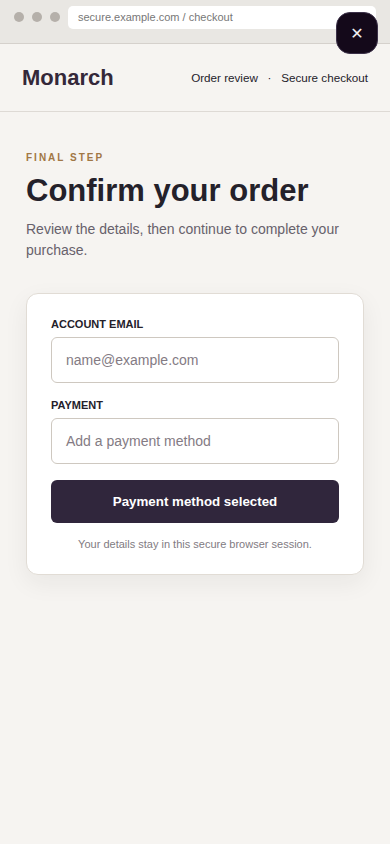
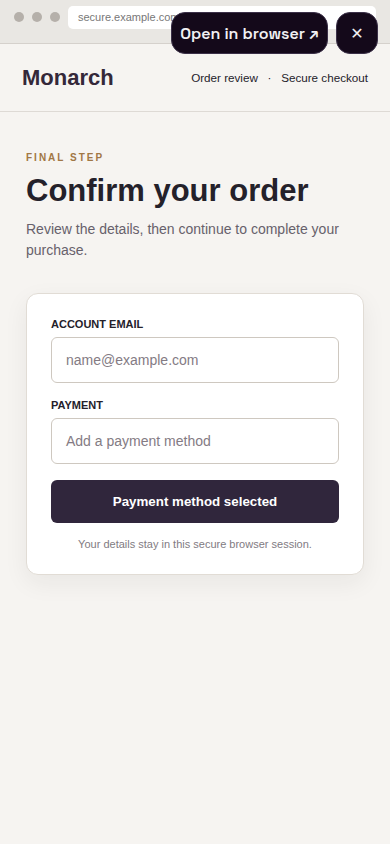
Restore authorized system browser handoff control

Changed region(s): [[0.4308, 0.0, 0.8615, 0.0616]]

diff --git a/apps/mobile/sources/components/buzz/ComputerSession.test.tsx b/apps/mobile/sources/components/buzz/ComputerSession.test.tsx
@@ -1,0 +1,61 @@
+import * as React from 'react';
+// @ts-expect-error react-test-renderer has no declarations in this workspace.
+import { act, create } from 'react-test-renderer';
+import { afterEach, expect, it, vi } from 'vitest';
+
+const phoneOperation = vi.hoisted(() => vi.fn(async () => ({ access: 'fresh-token' })));
+const openExternalUrl = vi.hoisted(() => vi.fn(async () => undefined));
+
+vi.mock('react-native', async () => {
+  const ReactModule = await import('react');
+  const host = (name: string) => (props: any) => ReactModule.createElement(name, props, props.children);
+  return { Platform: { OS: 'ios' }, Pressable: host('Pressable'), Text: host('Text'), View: host('View') };
+});
+vi.mock('react-native-safe-area-context', () => ({ useSafeAreaInsets: () => ({ top: 0 }) }));
+vi.mock('react-native-unistyles', () => ({
+  StyleSheet: { create: (factory: any) => factory({ buzz: {
+    transcriptCard: { marginTop: 8, cornerRadius: 12, side: 16, footerMinHeight: 40 },
+    space: { xs: 4, sm: 8 }, type: { body: {}, bodyStrong: {}, machine: {} },
+    border: '#444', borderStrong: '#555', bgBase: '#111', textPrimary: '#fff', ledgerQuiet: '#aaa', accent: '#c90',
+  } }) },
+}));
+vi.mock('@/components/buzz/sandbox-webview', () => ({ useSandboxWebView: () => null }));
+vi.mock('@/sync/transport/monolith-operation', () => ({ monolithPhoneOperation: phoneOperation }));
+vi.mock('@/utils/open-external-url', () => ({ openExternalUrl }));
+vi.mock('@/buzz/desktop-computer-pane', () => ({ openComputerInDesktopWorkPane: () => false }));
+vi.mock('@/modal', () => ({ Modal: { show: vi.fn(), alert: vi.fn() } }));
+
+import { ComputerSessionViewer, type ComputerSessionView } from './ComputerSession';
+
+const session = {
+  id: 'session-1', title: 'Browser', url: 'https://computer.usebeeline.app/s/session-1/',
+  status: 'live' as const, access: 'old-token',
+} as ComputerSessionView;
+
+afterEach(() => { phoneOperation.mockClear(); openExternalUrl.mockClear(); });
+
+it('mints a fresh steering token before opening the system browser', async () => {
+  let tree: ReturnType<typeof create>;
+  await act(async () => { tree = create(<ComputerSessionViewer session={session} onClose={() => undefined} />); });
+  await act(async () => {
+    tree!.root.findByProps({ testID: 'computer-session-open-browser' }).props.onPress();
+    await vi.waitFor(() => expect(openExternalUrl).toHaveBeenCalledOnce());
+  });
+  expect(phoneOperation).toHaveBeenCalledWith('openComputerSession', { id: 'session-1' });
+  expect(openExternalUrl).toHaveBeenCalledWith('https://computer.usebeeline.app/s/session-1/?access=fresh-token');
+  await act(async () => tree!.unmount());
+});
+
+it('offers no browser handoff after the session ends', async () => {
+  let tree: ReturnType<typeof create>;
+  await act(async () => { tree = create(<ComputerSessionViewer session={{ ...session, status: 'ended' }} onClose={() => undefined} />); });
+  expect(tree!.root.findAllByProps({ testID: 'computer-session-open-browser' })).toHaveLength(0);
+  await act(async () => tree!.unmount());
+});
+
+it('offers no browser handoff without steering access', async () => {
+  let tree: ReturnType<typeof create>;
+  await act(async () => { tree = create(<ComputerSessionViewer session={{ ...session, access: undefined }} onClose={() => undefined} />); });
+  expect(tree!.root.findAllByProps({ testID: 'computer-session-open-browser' })).toHaveLength(0);
+  await act(async () => tree!.unmount());
+});

diff --git a/apps/mobile/sources/components/buzz/ComputerSession.tsx b/apps/mobile/sources/components/buzz/ComputerSession.tsx
@@ -7,6 +7,7 @@ import { useSandboxWebView } from '@/components/buzz/sandbox-webview';
 import { monolithPhoneOperation } from '@/sync/transport/monolith-operation';
 import { Modal } from '@/modal';
 import { openComputerInDesktopWorkPane } from '@/buzz/desktop-computer-pane';
+import { openExternalUrl } from '@/utils/open-external-url';
 
 export type ComputerSessionView = NonNullable<RoomViewMessage['computerSession']> & { access?: string };
 
@@ -89,9 +90,21 @@ export function ComputerSessionViewer({ session, onClose }: { session: ComputerS
   const [ended, setEnded] = React.useState(session.status === 'ended');
   React.useEffect(() => { if (session.status === 'ended') setEnded(true); }, [session.status]);
   const shownSession = ended ? { ...session, status: 'ended' as const } : session;
+  const openInBrowser = async () => {
+    if (ended || !session.access) return;
+    try {
+      const { access } = await monolithPhoneOperation('openComputerSession', { id: session.id });
+      const url = new URL(session.url);
+      url.searchParams.set('access', access);
+      await openExternalUrl(url.toString());
+    } catch {
+      Modal.alert('Could not open browser', 'The live browser is unavailable. Try again.');
+    }
+  };
   return <View style={styles.viewer} testID="computer-session-viewer">
     <ComputerStream session={shownSession} onEnded={() => setEnded(true)} />
     <View style={[styles.controls, { top: insets.top + 12 }]}>
+      {!ended && session.access ? <Pressable style={styles.browserControl} onPress={() => void openInBrowser()} accessibilityRole="button" accessibilityLabel="Open in browser" testID="computer-session-open-browser"><Text style={styles.controlText}>Open in browser ↗</Text></Pressable> : null}
       <Pressable style={styles.control} onPress={onClose} accessibilityRole="button" accessibilityLabel="Close browser" testID="computer-session-close"><Text style={styles.controlText}>✕</Text></Pressable>
     </View>
   </View>;
@@ -109,6 +122,7 @@ const styles = StyleSheet.create((theme) => ({
   viewer: { flex: 1, backgroundColor: theme.buzz.bgBase },
   controls: { position: 'absolute', right: 12, flexDirection: 'row', gap: 8 },
   control: { width: 42, height: 42, borderRadius: 14, borderWidth: 1, borderColor: theme.buzz.borderStrong, backgroundColor: theme.buzz.bgBase, alignItems: 'center', justifyContent: 'center' },
+  browserControl: { height: 42, paddingHorizontal: theme.buzz.space.sm, borderRadius: 14, borderWidth: 1, borderColor: theme.buzz.borderStrong, backgroundColor: theme.buzz.bgBase, alignItems: 'center', justifyContent: 'center' },
   controlText: { ...theme.buzz.type.bodyStrong, color: theme.buzz.textPrimary },
   ended: { width: '100%', height: '100%', alignItems: 'center', justifyContent: 'center', backgroundColor: theme.buzz.bgBase },
   endedText: { ...theme.buzz.type.body, color: theme.buzz.textPrimary },

diff --git a/data/beeline-computer-use-plan/real-frames/README.md b/data/beeline-computer-use-plan/real-frames/README.md
@@ -6,12 +6,13 @@ These frames render the actual `ComputerSessionCard` and `ComputerSessionViewer`
 | --- | --- | --- |
 | `phone-card-live.png` | 390 × 844 | Live stream card in the Room transcript |
 | `phone-card-read-only.png` | 390 × 844 | Transcript reader barred from steering sees the card without preview or open button |
-| `phone-viewer-live.png` | 390 × 844 | Full screen browser viewer |
+| `phone-viewer-live.png` | 390 × 844 | Full screen browser viewer with small Open in browser and close controls |
 | `phone-viewer-control.png` | 390 × 844 | Same viewer after human input changed the browser page |
+| `phone-system-browser.png` | 390 × 844 | The same interactive browser page opened as a top-level system browser page; browser chrome is outside the captured viewport |
 | `phone-card-ended.png` | 390 × 844 | Plain ended card; no retained pixels |
 | `phone-viewer-ended.png` | 390 × 844 | An already-open viewer after the stream ends |
 | `phone-card-light.png` | 390 × 844 | Live card in the light theme |
-| `desktop-live.png` | 1440 × 900 | Live card and browser in the normal 400 px work pane |
+| `desktop-live.png` | 1440 × 900 | Live card and browser in the normal 400 px work pane, with Open in browser |
 | `desktop-ended.png` | 1440 × 900 | Ended card and an already-open pane after the stream ends |
 
 Rebuild the fixture with `node apps/mobile/scripts/render-computer-session-frame.mjs`, serve `evidence/computer-session/`, and capture each `?frame=` URL using `CHROME_DEVTOOLS_AXI_SESSION=beeline-computer-use-plan chrome-devtools-axi`. Browser inspection reported `SpaceGrotesk-SemiBold` for the phone card title and the loaded families `SpaceGrotesk-Regular`, `SpaceGrotesk-Medium`, `SpaceGrotesk-SemiBold`, and `IBMPlexMono-Regular`; the desktop card resolved to `SpaceGrotesk-Regular` for the sampled node. No Times fallback appeared.
